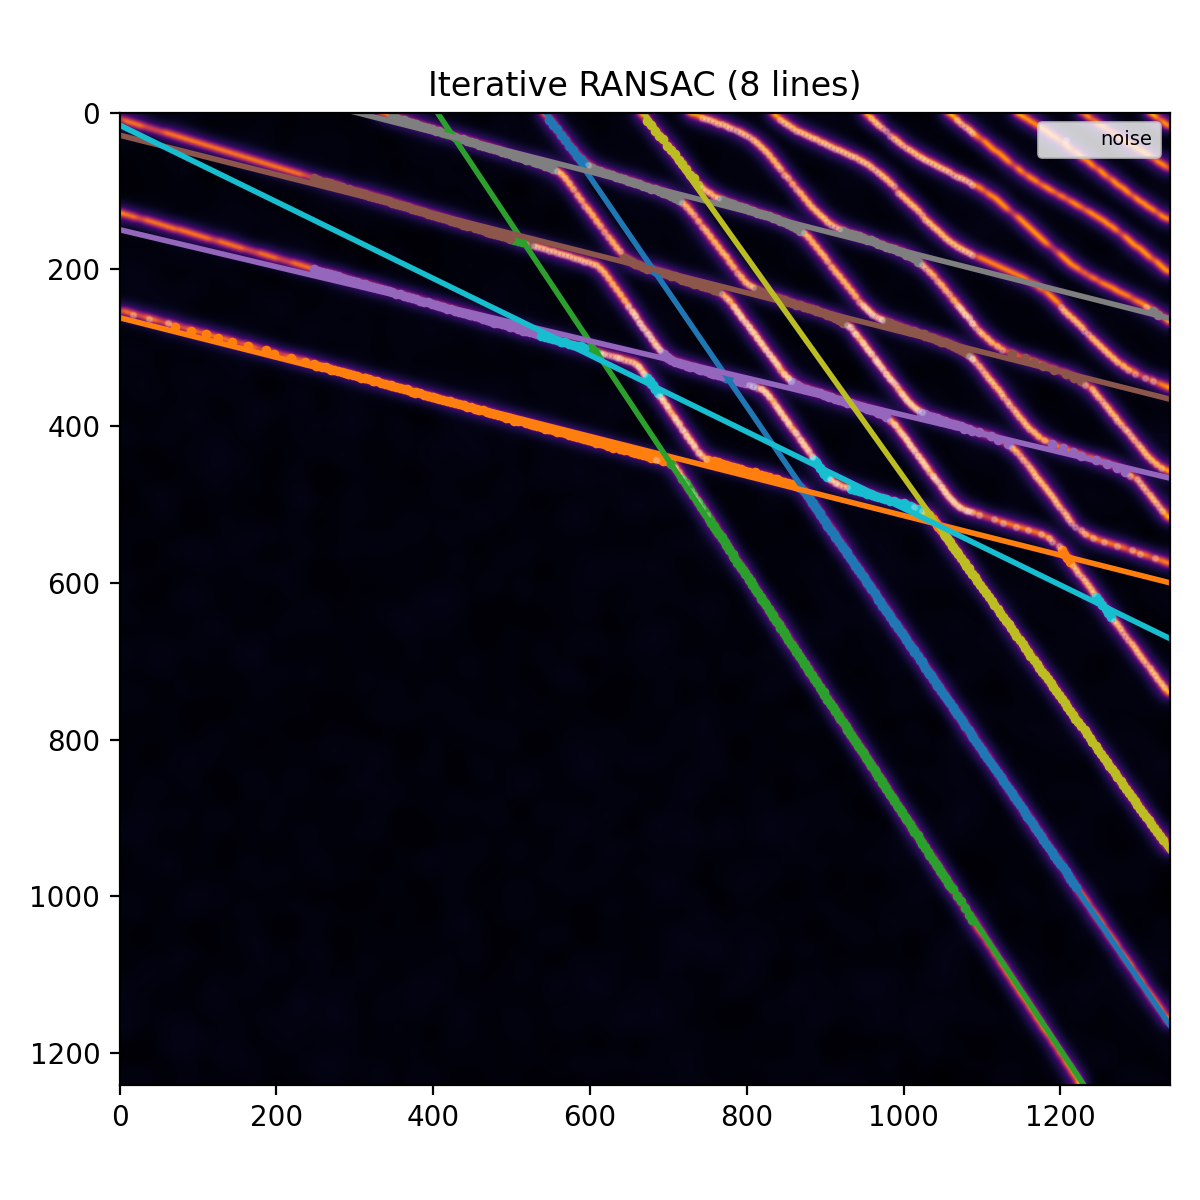
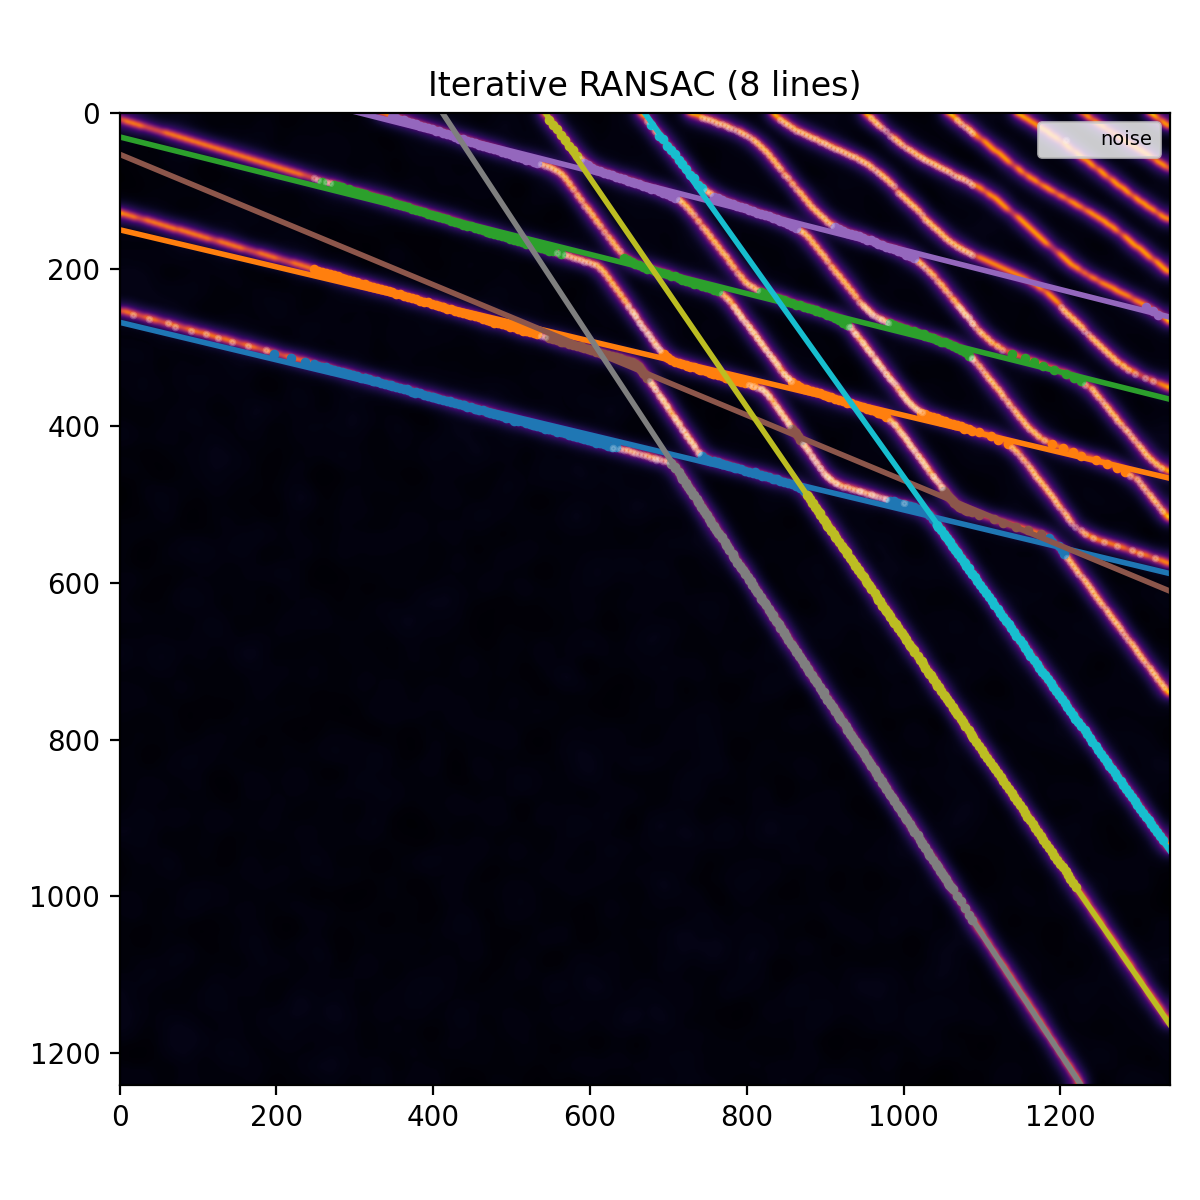
fixed stray line

diff --git a/1D/1D_extraction.py b/1D/1D_extraction.py
@@ -267,7 +267,7 @@ MIN_INLIERS = 60
 
 # 1. Define the rule: Pass 1 is ONLY allowed to find flat lines
 def valid_flat_line(estimator, X, y):
-    return abs(estimator.coef_[0]) < 1.5
+    return abs(estimator.coef_[0]) < 0.8 #WAS 1.5
 
 # --- PASS 1: Find Diagonal Lines (Normal X, Y) ---
 print("--- PASS 1: Diagonal Lines ---")
@@ -501,22 +501,77 @@ for l in filtered_lines:
 
 
 
-# ── SAVE RESULTS ────────────────────────────────────
+# ── SAVE RESULTS & ROBUST OUTLIER REJECTION (MAD) ───
 import json
 
+diag_raw = [l["slope"] for l in filtered_lines if l["type"] == "diagonal"]
+steep_raw = [l["slope"] for l in filtered_lines if l["type"] == "steep"]
+
+# Calculate Median and MAD for Diagonals
+diag_med = np.median(diag_raw)
+diag_mad = np.median([abs(s - diag_med) for s in diag_raw])
+diag_mad = max(diag_mad, 1e-5) # Safety fallback
+
+# Calculate Median and MAD for Steep lines
+steep_med = np.median(steep_raw)
+steep_mad = np.median([abs(s - steep_med) for s in steep_raw])
+steep_mad = max(steep_mad, 1e-5) # Safety fallback
+
+# Keep only the lines that pass the MAD filter
+truly_filtered_lines = [
+    l for l in filtered_lines 
+    if (l["type"] == "diagonal" and abs(l["slope"] - diag_med) < 2.5 * diag_mad) or 
+       (l["type"] == "steep" and abs(l["slope"] - steep_med) < 2.5 * steep_mad)
+]
+
 with open(os.path.join(out_folder, "extracted_lines.json"), "w") as f:
-    json.dump(filtered_lines, f, indent=4)
+    json.dump(truly_filtered_lines, f, indent=4)
 
-print("Saved line data → extracted_lines.json")
-
-
-
+print(f"Rejected {len(filtered_lines) - len(truly_filtered_lines)} outlier junction lines via MAD.")
+print("Saved clean line data → extracted_lines.json")
 
 
-diag_slopes = [l["slope"] for l in filtered_lines if l["type"] == "diagonal"]
-steep_slopes = [l["slope"] for l in filtered_lines if l["type"] == "steep"]
+# ── REGENERATE CLEAN ITERATIVE PLOT (CLAUDE'S OPTION 2) ───
+fig, ax = plt.subplots(figsize=(6, 6))
+ax.imshow(img_smoothed, cmap="inferno")
+h, w = img_smoothed.shape
+ax.set_xlim(0, w)
+ax.set_ylim(h, 0)
+
+# Re-use the color mapping from earlier
+colors = plt.cm.tab10(np.linspace(0, 1, max(len(line_clusters), 1)))
+
+for i, line in enumerate(line_clusters):
+    # Claude's Fix: Skip any line not in the clean set (match by slope)
+    if not any(abs(line["slope"] - clean_l["slope"]) < 0.01 for clean_l in truly_filtered_lines):
+        continue
+        
+    pts = line["points"]
+    slope = line["slope"]
+    intercept = line["intercept"]
+
+    # Plot original points
+    ax.scatter(pts[:, 0], pts[:, 1], s=6, color=colors[i])
+    
+    # Plot thick line
+    x_line = np.array([0, w])
+    y_line = slope * x_line + intercept
+    ax.plot(x_line, y_line, color=colors[i], linewidth=2)
+
+ax.set_title(f"Iterative RANSAC (Cleaned: {len(truly_filtered_lines)} lines)")
+
+plt.tight_layout()
+# Saving as a NEW file so you keep both the raw and clean versions for your thesis
+plt.savefig(os.path.join(out_folder, "ransac_iterative_clean.png"), dpi=200)
+plt.close()
+
+print("Saved regenerated clean iterative RANSAC plot")
+
+diag_slopes = [l["slope"] for l in truly_filtered_lines if l["type"] == "diagonal"]
+steep_slopes = [l["slope"] for l in truly_filtered_lines if l["type"] == "steep"]
 
 print("\nFINAL RESULTS:")
+
 print(f"Diagonal slope (mean): {np.mean(diag_slopes):.4f}")
 print(f"Diagonal std: {np.std(diag_slopes):.4f}")
 print(f"Steep slope (mean): {np.mean(steep_slopes):.4f}")

diff --git a/1D/virtual_gates.py b/1D/virtual_gates.py
@@ -6,7 +6,7 @@ from scipy import stats
 from scipy.ndimage import affine_transform
 
 # ── 1. setup paths ──────────────────────────────────────────
-img_path = os.path.join("CSD_generated_images", "csd_clean.png")
+img_path = os.path.join("CSD_generated_images", "csd_clean_simCAT.png")
 json_path = os.path.join("1D", "extracted_lines.json")
 
 out_folder = os.path.join("1D", "Virtual_Gates")
